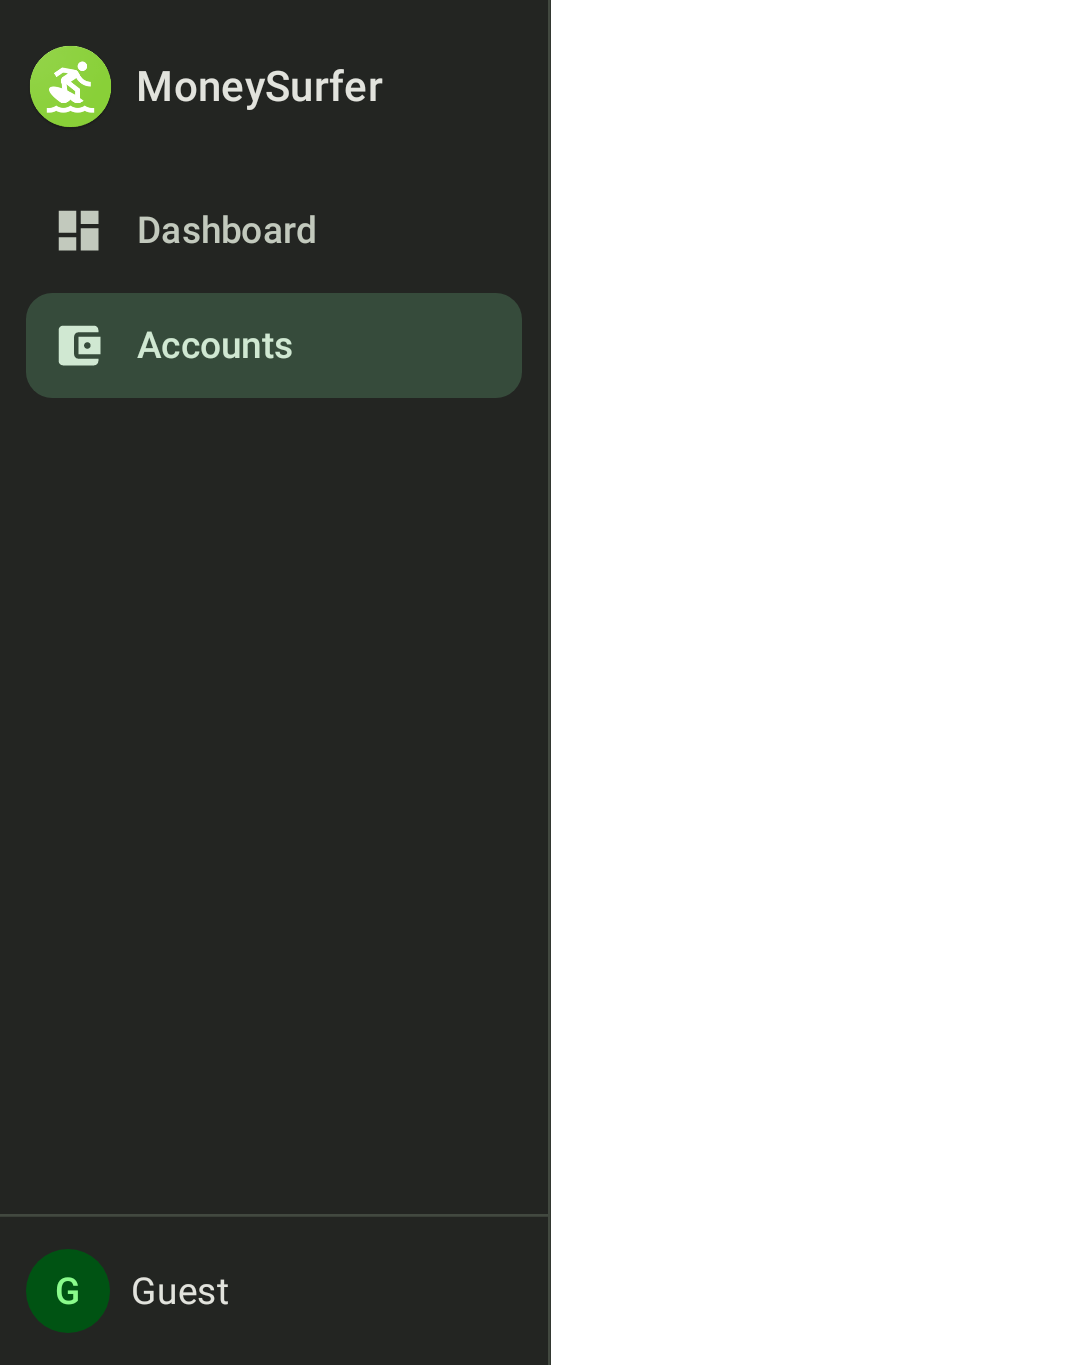
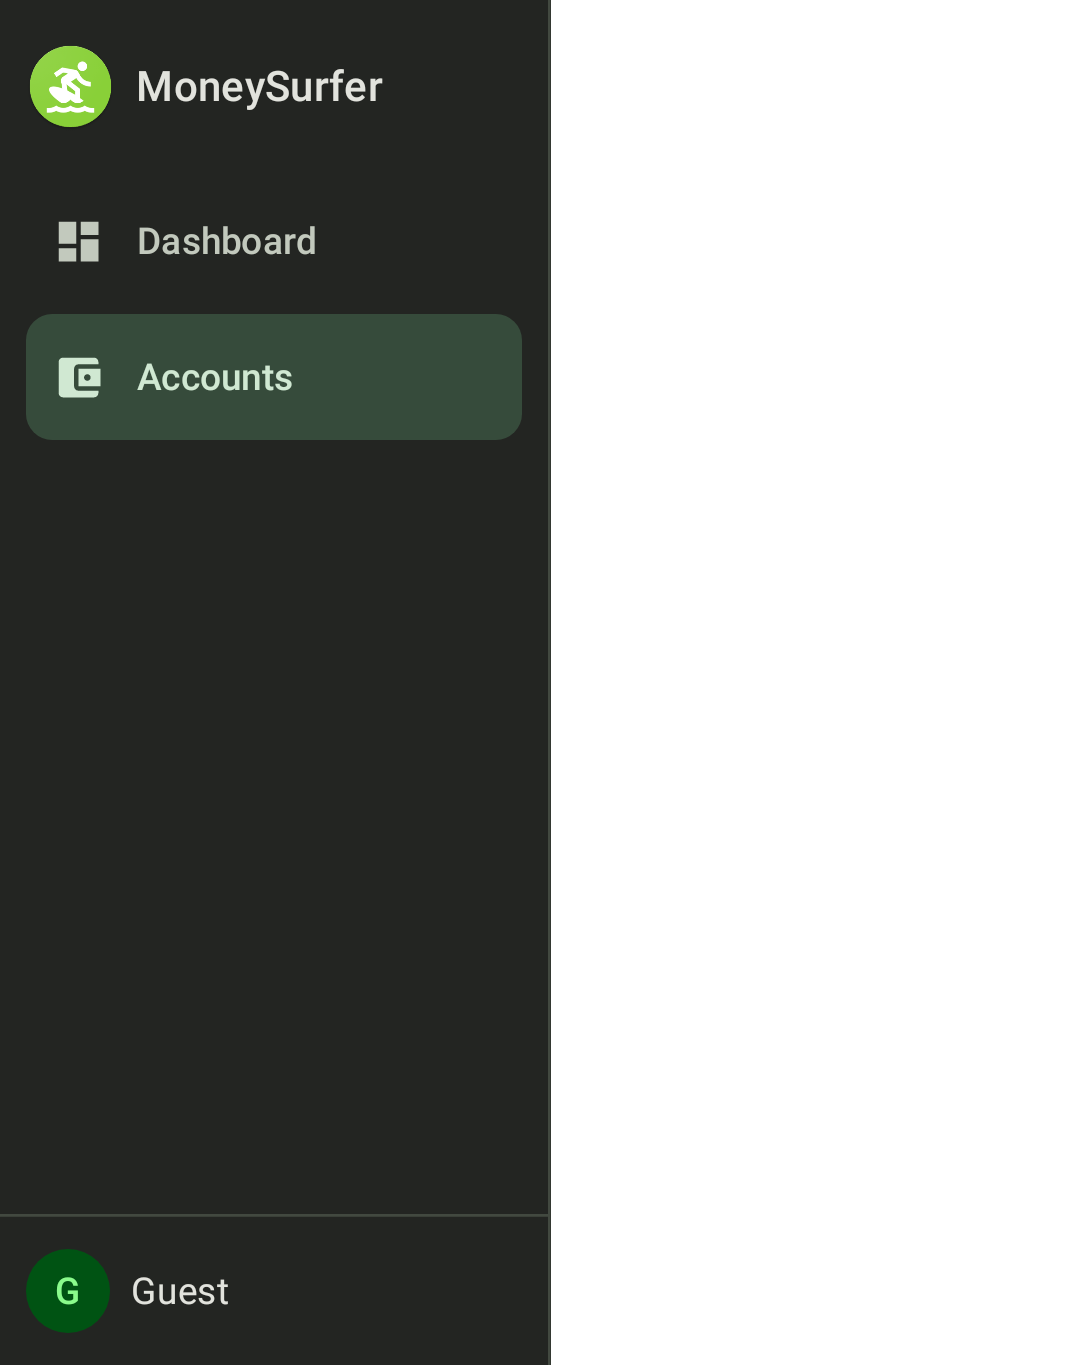
fix(navigation): drawer insets, touch target and section memoisation
Self-review of #412 found four things worth fixing before merge.

The drawer applied no vertical insets at all, so on an edge-to-edge Android
host its brand header rendered under the status bar and its user footer under
the gesture bar — the rail it replaces got both for free from
`NavigationRailDefaults.windowInsets`. Padding the whole row horizontally was
wrong for the same reason: chrome has to paint to the window edge. The drawer
now owns its insets the way `NavigationRail` does — surface edge to edge,
content padded inside it — and the host only *consumes* the start inset so the
content pane does not apply it again on an interior edge.

Rows were 40 dp, under the 48 dp minimum; `Modifier.selectable` expands no
touch target of its own, unlike the M3 controls that call
`minimumInteractiveComponentSize()`.

`drawerSections` built its `onClick` lambdas inside a plain `map`, which the
Compose compiler does not memoize, so every recomposition handed the drawer
seven items with new identities and `@Immutable` bought nothing.

And the "user block is inert" test asserted nothing about inertness —
`performClick` needs no click action, so it passed either way.

Changed region(s): [[0.0, 0.1538, 0.4898, 0.3385], [0.1224, 0.1538, 0.3061, 0.1846]]

diff --git a/navigation/src/commonMain/kotlin/com/georgeci/moneysurfer/navigation/AppNavigationShell.kt b/navigation/src/commonMain/kotlin/com/georgeci/moneysurfer/navigation/AppNavigationShell.kt
@@ -4,11 +4,11 @@ import androidx.compose.foundation.layout.Box
 import androidx.compose.foundation.layout.Row
 import androidx.compose.foundation.layout.WindowInsets
 import androidx.compose.foundation.layout.WindowInsetsSides
+import androidx.compose.foundation.layout.consumeWindowInsets
 import androidx.compose.foundation.layout.fillMaxHeight
 import androidx.compose.foundation.layout.fillMaxSize
 import androidx.compose.foundation.layout.only
 import androidx.compose.foundation.layout.safeDrawing
-import androidx.compose.foundation.layout.windowInsetsPadding
 import androidx.compose.material3.Icon
 import androidx.compose.material3.Text
 import androidx.compose.material3.adaptive.ExperimentalMaterial3AdaptiveApi
@@ -16,6 +16,7 @@ import androidx.compose.material3.adaptive.navigationsuite.NavigationSuiteScaffo
 import androidx.compose.material3.adaptive.navigationsuite.NavigationSuiteType
 import androidx.compose.runtime.Composable
 import androidx.compose.runtime.getValue
+import androidx.compose.runtime.remember
 import androidx.compose.ui.Modifier
 import androidx.lifecycle.compose.collectAsStateWithLifecycle
 import com.georgeci.moneysurfer.uikit.components.base.SurferDrawerItem
@@ -97,10 +98,13 @@ internal fun AppNavigationShell(
  * The drawer presentation: [SurferNavigationDrawer] beside the content, with the destinations
  * grouped by [NavigationSection].
  *
- * The horizontal `safeDrawing` insets are padded — and thereby consumed — once around both
- * children, exactly as [SurferPaneSceneStrategy] does for the two panes inside `content`. Applied
- * by each child instead, the drawer would pad the window edge and the content its own left edge,
- * which is an interior edge with no system inset behind it.
+ * Insets are split the way `NavigationSuiteScaffold` splits them for the rail, not the way
+ * [SurferPaneSceneStrategy] splits them for two panes. The drawer is chrome, so its surface has to
+ * reach the window edge and pad its own content — padding the whole row instead would leave a
+ * strip of the scaffold background beside a start-edge cutout, and leave the brand header under
+ * the status bar. What the host owes the content pane is only the *consumption*: the start inset
+ * is the drawer's, so the pane inside must not apply it again on an interior edge. The end inset
+ * survives for `SurferPaneScene` and the screens to apply.
  */
 @Composable
 private fun AppNavigationDrawer(
@@ -111,20 +115,23 @@ private fun AppNavigationDrawer(
 ) {
     val viewModel: AppShellViewModel = koinViewModel()
     val identity by viewModel.identity.collectAsStateWithLifecycle()
-    Row(
-        modifier = Modifier
-            .fillMaxSize()
-            .windowInsetsPadding(WindowInsets.safeDrawing.only(WindowInsetsSides.Horizontal)),
-    ) {
+    Row(modifier = Modifier.fillMaxSize()) {
         SurferNavigationDrawer(
             sections = drawerSections(currentTopLevel = currentTopLevel, onSelect = onSelect),
             userName = identity.userName ?: stringResource(Res.string.nav_user_guest),
             workspaceName = identity.workspaceName,
             onUserClick = onOpenWorkspaceSelector,
         )
-        // `weight` only sizes the horizontal axis; without `fillMaxHeight` the content column
-        // would wrap its children's height instead of filling the window beside the drawer.
-        Box(modifier = Modifier.weight(1f).fillMaxHeight()) { content() }
+        Box(
+            // `weight` only sizes the horizontal axis; without `fillMaxHeight` the content column
+            // would wrap its children's height instead of filling the window beside the drawer.
+            modifier = Modifier
+                .weight(1f)
+                .fillMaxHeight()
+                .consumeWindowInsets(WindowInsets.safeDrawing.only(WindowInsetsSides.Start)),
+        ) {
+            content()
+        }
     }
 }
 
@@ -133,25 +140,37 @@ private fun AppNavigationDrawer(
  * each one. `groupBy` preserves insertion order for both the keys and the values, so a section
  * that ever became non-contiguous in the enum would still render as one block — the enum's own
  * doc is what keeps the two orders honest.
+ *
+ * Remembered because the `onClick` lambdas are built inside a plain `map`, which the Compose
+ * compiler does not memoize: without this every recomposition would hand the drawer seven items
+ * with new lambda identities, and `@Immutable` would buy nothing. The resolved label lists are
+ * keys rather than a locale token, so a configuration change still rebuilds them.
  */
 @Composable
 private fun drawerSections(
     currentTopLevel: Route.TopLevel,
     onSelect: (Route) -> Unit,
-): List<SurferDrawerSection> =
-    TopLevelDestination.entries.groupBy { it.section }.map { (section, destinations) ->
-        SurferDrawerSection(
-            label = section.label?.let { stringResource(it) },
-            items = destinations.map { destination ->
-                SurferDrawerItem(
-                    label = stringResource(destination.label),
-                    icon = destination.icon,
-                    selected = destination.matches(currentTopLevel),
-                    onClick = { onSelect(destination.route) },
-                )
-            },
-        )
+): List<SurferDrawerSection> {
+    val labels = TopLevelDestination.entries.map { stringResource(it.label) }
+    val sectionLabels = NavigationSection.entries.map { section ->
+        section.label?.let { stringResource(it) }
     }
+    return remember(currentTopLevel, onSelect, labels, sectionLabels) {
+        TopLevelDestination.entries.groupBy { it.section }.map { (section, destinations) ->
+            SurferDrawerSection(
+                label = sectionLabels[section.ordinal],
+                items = destinations.map { destination ->
+                    SurferDrawerItem(
+                        label = labels[destination.ordinal],
+                        icon = destination.icon,
+                        selected = destination.matches(currentTopLevel),
+                        onClick = { onSelect(destination.route) },
+                    )
+                },
+            )
+        }
+    }
+}
 
 /** The rail (and the empty Compact) presentation — the flat list `NavigationSuiteScaffold` takes. */
 @OptIn(ExperimentalMaterial3AdaptiveApi::class)

diff --git a/uikit/src/commonMain/kotlin/com/georgeci/moneysurfer/uikit/components/base/SurferNavigationDrawer.kt b/uikit/src/commonMain/kotlin/com/georgeci/moneysurfer/uikit/components/base/SurferNavigationDrawer.kt
@@ -7,12 +7,17 @@ import androidx.compose.foundation.layout.Arrangement
 import androidx.compose.foundation.layout.Box
 import androidx.compose.foundation.layout.Column
 import androidx.compose.foundation.layout.Row
+import androidx.compose.foundation.layout.WindowInsets
+import androidx.compose.foundation.layout.WindowInsetsSides
 import androidx.compose.foundation.layout.fillMaxHeight
 import androidx.compose.foundation.layout.fillMaxWidth
 import androidx.compose.foundation.layout.height
+import androidx.compose.foundation.layout.only
 import androidx.compose.foundation.layout.padding
+import androidx.compose.foundation.layout.safeDrawing
 import androidx.compose.foundation.layout.size
 import androidx.compose.foundation.layout.width
+import androidx.compose.foundation.layout.windowInsetsPadding
 import androidx.compose.foundation.rememberScrollState
 import androidx.compose.foundation.selection.selectable
 import androidx.compose.foundation.selection.selectableGroup
@@ -84,6 +89,10 @@ data class SurferDrawerSection(
  * @param userName primary line of the footer — a display name, an email, or a placeholder.
  * @param workspaceName secondary line; omitted when no workspace is selected yet.
  * @param onUserClick makes the footer a button (the workspace switcher). Null leaves it inert.
+ * @param windowInsets the insets the drawer keeps its content clear of. Owned here rather than by
+ *   the host for the same reason `NavigationRail` owns its own: the surface has to paint edge to
+ *   edge — under the status bar and any start-edge cutout — while the brand header and the user
+ *   footer stay out from under them. The default matches `NavigationRailDefaults.windowInsets`.
  */
 @Composable
 fun SurferNavigationDrawer(
@@ -93,6 +102,8 @@ fun SurferNavigationDrawer(
     brand: String = stringResource(Res.string.uikit_brand),
     workspaceName: String? = null,
     onUserClick: (() -> Unit)? = null,
+    windowInsets: WindowInsets =
+        WindowInsets.safeDrawing.only(WindowInsetsSides.Start + WindowInsetsSides.Vertical),
 ) {
     Row(modifier = modifier.fillMaxHeight().width(DrawerWidth)) {
         Column(
@@ -100,6 +111,8 @@ fun SurferNavigationDrawer(
                 .weight(1f)
                 .fillMaxHeight()
                 .background(AppTheme.materialColors.surfaceContainerLow)
+                // Inside the background, so the surface still reaches the window edge.
+                .windowInsetsPadding(windowInsets)
                 .testTag(SurferNavigationDrawerTestTags.Root),
         ) {
             BrandHeader(brand = brand)
@@ -273,7 +286,9 @@ private val BrandLogoCorner: Dp = 10.dp
 private val HorizontalInset: Dp = 10.dp
 private val ItemInset: Dp = 10.dp
 private val ItemGap: Dp = 2.dp
-private val ItemHeight: Dp = 40.dp
+
+/** The 48 dp minimum touch target — `Modifier.selectable` does not expand one of its own. */
+private val ItemHeight: Dp = 48.dp
 private val ItemCorner: Dp = 10.dp
 private val ItemIconSize: Dp = 20.dp
 private val AvatarSize: Dp = 32.dp

diff --git a/composeApp/src/jvmTest/kotlin/com/georgeci/moneysurfer/ui/SurferNavigationDrawerTest.kt b/composeApp/src/jvmTest/kotlin/com/georgeci/moneysurfer/ui/SurferNavigationDrawerTest.kt
@@ -5,6 +5,8 @@ import androidx.compose.foundation.layout.height
 import androidx.compose.runtime.Composable
 import androidx.compose.ui.Modifier
 import androidx.compose.ui.test.ExperimentalTestApi
+import androidx.compose.ui.test.assertHasClickAction
+import androidx.compose.ui.test.assertHasNoClickAction
 import androidx.compose.ui.test.assertIsNotSelected
 import androidx.compose.ui.test.assertIsSelected
 import androidx.compose.ui.test.onAllNodesWithText
@@ -79,6 +81,7 @@ class SurferNavigationDrawerTest : StringSpec({
             var userClicks = 0
             setContent { Drawer(onUserClick = { userClicks++ }) }
 
+            onNodeWithTag(SurferNavigationDrawerTestTags.User).assertHasClickAction()
             onNodeWithTag(SurferNavigationDrawerTestTags.User).performClick()
 
             userClicks shouldBe 1
@@ -89,9 +92,10 @@ class SurferNavigationDrawerTest : StringSpec({
         runComposeUiTest {
             setContent { Drawer(onUserClick = null) }
 
-            // Nothing to assert but that clicking it neither crashes nor reports anything —
-            // the footer is a label until the caller gives it somewhere to go.
-            onNodeWithTag(SurferNavigationDrawerTestTags.User).performClick()
+            // The footer is a label until the caller gives it somewhere to go. Asserted on the
+            // semantics rather than by clicking it: `performClick` needs no click action, so a
+            // click that reports nothing would pass even if the guard were dropped.
+            onNodeWithTag(SurferNavigationDrawerTestTags.User).assertHasNoClickAction()
             onNodeWithText(USER).assertExists()
         }
     }

diff --git a/navigation/src/commonTest/kotlin/com/georgeci/moneysurfer/navigation/NavigationShellTest.kt b/navigation/src/commonTest/kotlin/com/georgeci/moneysurfer/navigation/NavigationShellTest.kt
@@ -4,6 +4,7 @@ import com.georgeci.moneysurfer.uikit.window.SurferWindowSize
 import io.kotest.core.spec.style.StringSpec
 import io.kotest.matchers.collections.shouldContainExactly
 import io.kotest.matchers.shouldBe
+import io.kotest.matchers.shouldNotBe
 
 /**
  * The width → presentation policy and the invariants the one destination list has to hold for all
@@ -53,7 +54,7 @@ class NavigationShellTest : StringSpec({
 
     "only the manage section is captioned" {
         NavigationSection.Primary.label shouldBe null
-        (NavigationSection.Manage.label != null) shouldBe true
+        NavigationSection.Manage.label shouldNotBe null
     }
 
     "no two destinations share a route" {
